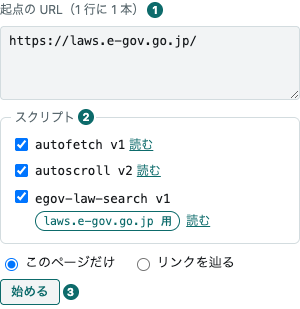
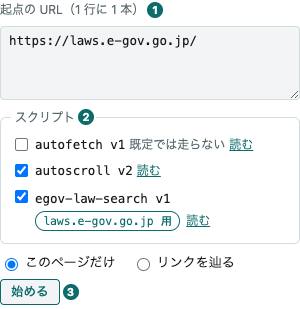
feat!: 既定に入らないスクリプトを、外れたチェックで並べる（台帳 v0.64.0 の enabled） (#44)
* feat!: 既定に入らないスクリプトを、外れたチェックで並べる（台帳 v0.64.0 の enabled）

capture-scripts v0.5.0 で autofetch がカタログの `default: false` になり、台帳 v0.64.0 は全部の版を
無効にして持ち、`GET /api/scripts` に `enabled: false` で載せる（名指せば最新版が走る）。dashboard は
これまで一覧の全部を既定と見ていたので、autofetch に付いたチェックのまま「既定のまま」と読み、
scripts を省いて、台帳が走らせない物を走らせるつもりで見せていた。

- 新しいクロールの画面: 初めのチェックは台帳の `enabled` のとおり。既定に入らない物は外れた状態で、
  名前の横に「既定では走らない」。付ければ名指して送る。人の付け外しは id ごとに覚える
  （外した物だけを覚える Set を、付けた物も覚える Map に）
- 既定の顔ぶれ（start.js の defaultIds）は enabled の物だけ —— 台帳の resolveScripts の写し
- スクリプトの画面: 一覧に組「既定では走らない（選べば走る）」。既定の版（版の札の「既定」と
  standing）は enabled の行からだけ取る（reading.js の defaultVersionOf）
- 代役: 一覧は台帳の pickable の写し、名指しは有効かどうかを見ない（resolveScripts の名指しの側）。
  台本の autofetch v1 は enabled: false。写しは capture-scripts v0.5.0 とバイト列が同じ
- docs: 新しいクロールの画面の項・スクリプトの画面の 4 つの組・URL の表・版の札、代役の説明。
  docs:shots で撮り直して変わったのは start と scripts

反証: defaultIds の enabled を外すと試験が 6 本赤、代役の名指しを有効な版に戻すと 4 本赤。
代役を Chrome で開き、チェック（autofetch は外れ・autoscroll は付き）と、既定のままなら scripts を
省き、autofetch を付けると [autofetch, autoscroll, egov-law-search] を送ることを確かめた。

台帳 v0.64.0 より前の台帳では enabled が無く、全部が「既定では走らない」に見える。

Claude-Session: https://claude.ai/code/session_011kE2dP25YBdBgTbk1xgCeD

* docs: 絵の元の控えを撮り直す（docs:shots の後に app.js の注記を直したため）

Claude-Session: https://claude.ai/code/session_011kE2dP25YBdBgTbk1xgCeD

---------

Changed region(s): [[0.42, 0.4369, 0.84, 0.4951], [0.03, 0.4369, 0.09, 0.4951]]

diff --git a/public/app.js b/public/app.js
@@ -32,6 +32,7 @@ import {
 } from "/start.js";
 import { dropsOf, inspectHref, ruleTallies } from "/decisions.js";
 import {
+  defaultVersionOf,
   labelOf,
   linesOf,
   metaOf,
@@ -375,10 +376,16 @@ const drawCrawls = () => {
  */
 let picks = [];
 
-/** 外したスクリプトの id。**引き直しても覚えておく。** 新しく現れた id は、選んだ状態で出る。 */
-const unpicked = new Set();
+/**
+ * 人が付け外ししたチェック（id → 付けたか）。**引き直しても覚えておく。** 覚えていない id は、台帳の既定
+ * （`enabled`）のとおりに出る —— 既定に入る物は付いた状態で、入らない物（autofetch など）は外れた状態で。
+ */
+const chosen = new Map();
 
-/** 最後に描いたチェックの形（id と版と札）。同じなら描き直さない。 */
+/** そのスクリプトを走らせるか。人が付け外ししていれば、それに従う。 */
+const pickedOf = (script) => chosen.get(script.id) ?? script.enabled;
+
+/** 最後に描いたチェックの形（id と版と札と、既定に入るか）。同じなら描き直さない。 */
 let catalogKey;
 
 /**
@@ -386,7 +393,7 @@ let catalogKey;
  * 引くので、毎回作り直すと、押そうとしているチェックが手の下で入れ替わる。付け外しは `syncPicks`。
  */
 const drawPicks = (scripts) => {
-  const key = scripts.map((s) => `${s.id}@${String(s.version)}~${s.sites.join(" ")}`).join(",");
+  const key = scripts.map((s) => `${s.id}@${String(s.version)}~${s.sites.join(" ")}~${String(s.enabled)}`).join(",");
   if (key === catalogKey) return;
   catalogKey = key;
   const box = $("start-picks");
@@ -396,8 +403,7 @@ const drawPicks = (scripts) => {
     const input = document.createElement("input");
     input.type = "checkbox";
     input.onchange = () => {
-      if (input.checked) unpicked.delete(script.id);
-      else unpicked.add(script.id);
+      chosen.set(script.id, input.checked);
     };
     const label = document.createElement("label");
     label.className = "pick";
@@ -408,12 +414,14 @@ const drawPicks = (scripts) => {
     read.href = readingHash({ id: script.id, version: script.version });
     read.dataset.read = "";
     const why = script.sites.length === 0 ? undefined : tag("span", "", "why");
+    // 既定に入らないスクリプト。チェックは外れた状態で出るが、付ければ走る（台帳は名指しを通す）
+    const off = script.enabled ? [] : [tag("span", "既定では走らない", "off")];
     if (why === undefined) {
-      label.append(input, name, read);
+      label.append(input, name, ...off, read);
     } else {
       // 名前と札をまとめる。長いホスト名で札が折り返しても、名前の下に揃う（理由の行と同じ）
       const head = tag("span", "", "phead");
-      head.append(name, siteChip(script.sites), read);
+      head.append(name, siteChip(script.sites), ...off, read);
       label.append(input, head, why);
     }
     box.append(label);
@@ -427,15 +435,15 @@ const drawPicks = (scripts) => {
 
 /**
  * チェックを起点に合わせる。サイト用のスクリプトは、起点のどれかが札のホストにあるときだけ押せる
- * （台帳の決まりの写し。`start.js` の `onSeed`）。**人が外したチェックは覚えたまま** —— 起点を
- * 書き換えて合わなくなれば押せなくなり、合うようになれば、外していない限り付く。
+ * （台帳の決まりの写し。`start.js` の `onSeed`）。**人が付け外ししたチェックは覚えたまま** —— 起点を
+ * 書き換えて合わなくなれば押せなくなり、合うようになれば、人が選んだとおり（選んでいなければ台帳の既定のとおり）に付く。
  */
 const syncPicks = () => {
   const hosts = seedHosts($("start-seeds").value);
   for (const { script, input, why } of picks) {
     const allowed = onSeed(script, hosts);
     input.disabled = !allowed;
-    input.checked = allowed && !unpicked.has(script.id);
+    input.checked = allowed && pickedOf(script);
     if (why === undefined) continue;
     why.textContent = allowed
       ? ""
@@ -447,7 +455,7 @@ const syncPicks = () => {
 
 /**
  * 欄の「走らせるもの」。組み立ては `start.js` の `scriptsOf`（試験から呼べる）。選んだ物は、起点に合い、
- * 外していない物。既定の顔ぶれ（台帳が `scripts` を省いた頼みに選ぶ物）と同じなら、送らずに済む。
+ * チェックの付いた物。既定の顔ぶれ（台帳が `scripts` を省いた頼みに選ぶ物）と同じなら、送らずに済む。
  */
 const runOf = () => {
   const hosts = seedHosts($("start-seeds").value);
@@ -455,7 +463,7 @@ const runOf = () => {
   return {
     catalog: scripts.map((script) => script.id),
     picked: scripts
-      .filter((script) => onSeed(script, hosts) && !unpicked.has(script.id))
+      .filter((script) => onSeed(script, hosts) && pickedOf(script))
       .map((script) => script.id),
     defaults: defaultIds(scripts, hosts),
     inline: {
@@ -1003,22 +1011,23 @@ const markListed = () => {
 };
 
 /**
- * 一覧（既定で走る版・サイト用の版・書くための受け皿の型）。**変わったときだけ描き直す** —— 一覧は
+ * 一覧（既定で走る版・サイト用の版・既定では走らない版・書くための受け皿の型）。**変わったときだけ描き直す** —— 一覧は
  * 走行中なら 2 秒ごとに引くので、毎回作り直すと、押そうとしている項目が手の下で入れ替わる（drawPicks と同じ）。
  */
 const drawReadingList = () => {
   $("scripts-empty").hidden = reading.latest.length > 0;
   const types = reading.types;
   const key = [
-    ...reading.latest.map((s) => `${s.id}@${String(s.version)}~${s.sha256}~${s.sites.join(" ")}`),
+    ...reading.latest.map((s) => `${s.id}@${String(s.version)}~${s.sha256}~${s.sites.join(" ")}~${String(s.enabled)}`),
     `types@${types === undefined ? "?" : types === null ? "-" : `${String(types.version)}~${types.sha256}`}`,
   ].join(",");
   if (key !== reading.listKey) {
     reading.listKey = key;
     const nav = $("reading-list");
     const item = (s) => listItem(readingHash({ id: s.id }), s.id, `v${String(s.version)}`, s.id, s.sites);
-    const anywhere = reading.latest.filter((s) => s.sites.length === 0);
-    const onSites = reading.latest.filter((s) => s.sites.length > 0);
+    const anywhere = reading.latest.filter((s) => s.enabled && s.sites.length === 0);
+    const onSites = reading.latest.filter((s) => s.enabled && s.sites.length > 0);
+    const off = reading.latest.filter((s) => !s.enabled);
     nav.replaceChildren(tag("span", "既定で走る", "grp"));
     if (anywhere.length === 0) {
       nav.append(tag("span", reading.latest.length === 0 ? "（台帳にスクリプトが無い）" : "（無し）", "muted"));
@@ -1026,6 +1035,9 @@ const drawReadingList = () => {
     nav.append(...anywhere.map(item));
     if (onSites.length > 0) {
       nav.append(tag("span", "サイト用（起点がそのサイトのとき）", "grp"), ...onSites.map(item));
+    }
+    if (off.length > 0) {
+      nav.append(tag("span", "既定では走らない（選べば走る）", "grp"), ...off.map(item));
     }
     nav.append(tag("span", "書くための型", "grp"));
     if (types === null) nav.append(tag("span", "host.d.ts（台帳に無い）", "muted"));
@@ -1266,8 +1278,8 @@ const openScript = async (target, stale) => {
     drawLines(IN_CATALOG, undefined);
     return;
   }
-  const defaultVersion = reading.latest.find((s) => s.id === target.id)?.version;
-  const version = target.version ?? defaultVersion ?? listed.versions[0].version;
+  const defaultVersion = defaultVersionOf(reading.latest, target.id);
+  const version = target.version ?? reading.latest.find((s) => s.id === target.id)?.version ?? listed.versions[0].version;
   const chips = chipsOf(target.id, listed.versions, version, defaultVersion);
   const entry = listed.versions.find((v) => v.version === version);
   if (entry === undefined) {
@@ -1329,7 +1341,7 @@ const openReading = async (asked) => {
     let target = asked;
     if (target === undefined) {
       // 一覧の頭（札の無い物が先に並ぶ）
-      const first = reading.latest.find((s) => s.sites.length === 0) ?? reading.latest[0];
+      const first = reading.latest.find((s) => s.enabled && s.sites.length === 0) ?? reading.latest[0];
       target = first !== undefined ? { id: first.id } : reading.types !== null ? {} : undefined;
       if (target !== undefined) history.replaceState(null, "", readingHash(target));
     }
@@ -1382,7 +1394,7 @@ const putTemplate = (doc, { replace = false, at = IN_CATALOG } = {}) => {
   $(doc.phase === "preload" ? "start-inline-preload" : "start-inline-behavior").checked = true;
   box.value = source;
   // 元を外す。両方走ると 2 回走り、coverage は id を見ずに、先に走る写しの報告を採る
-  unpicked.add(doc.id);
+  chosen.set(doc.id, false);
   catalogKey = undefined; // drawPicks は台帳のスクリプトが変わったときだけ描くので、ここで描き直させる
   drawPicks(reading.latest);
   const said = $("start-answer");
@@ -1451,7 +1463,7 @@ const drawStartReadHead = () => {
     drawReadingHead(IN_START, { facts: metaOf(doc), actions: [copyButton(doc.source), full] });
     return;
   }
-  const defaultVersion = reading.latest.find((s) => s.id === doc.id)?.version;
+  const defaultVersion = defaultVersionOf(reading.latest, doc.id);
   drawReadingHead(IN_START, {
     facts: [...metaOf(doc), optionsText(doc.options)],
     standing: standingOf(doc, defaultVersion),

diff --git a/public/reading.js b/public/reading.js
@@ -80,7 +80,16 @@ export const optionsText = (options) =>
     : `設定 ${JSON.stringify(options)}`;
 
 /**
- * この版と既定の顔ぶれの関係。`defaultVersion` は `GET /api/scripts` がその id に言う版（無ければ
+ * その id で既定の顔ぶれに入る版。`latest` は `GET /api/scripts` の答え（id ごとに 1 行。既定に入らない id も
+ * `enabled: false` で載る）。既定に入らない id と、載っていない id は undefined。
+ */
+export const defaultVersionOf = (latest, id) => {
+  const script = latest.find((s) => s.id === id);
+  return script?.enabled ? script.version : undefined;
+};
+
+/**
+ * この版と既定の顔ぶれの関係。`defaultVersion` は `defaultVersionOf` の答え（既定に入らない id なら
  * undefined）。無効な版は、名指せば走るが、既定では走らない。サイト用のスクリプト（札のある版）が既定で
  * 走るのは、起点のどれかが札のホストにあるときだけ。
  */

diff --git a/public/start.js b/public/start.js
@@ -44,9 +44,12 @@ export const onSeed = (script, hosts) =>
 export const plainClick = (event) =>
   event.button === 0 && !event.metaKey && !event.ctrlKey && !event.shiftKey && !event.altKey;
 
-/** 起点だけで決まる顔ぶれ —— 台帳が `scripts` を省いた頼みに選ぶ物と同じ。並びは台帳の並び。 */
+/**
+ * 起点と台帳の既定（`enabled`）で決まる顔ぶれ —— 台帳が `scripts` を省いた頼みに選ぶ物と同じ。並びは台帳の並び。
+ * 既定に入らないスクリプト（`enabled: false`。カタログの `default: false`）は、起点に合っても入らない。
+ */
 export const defaultIds = (scripts, hosts) =>
-  scripts.filter((script) => onSeed(script, hosts)).map((script) => script.id);
+  scripts.filter((script) => script.enabled && onSeed(script, hosts)).map((script) => script.id);
 
 /**
  * 走らせるもの（台帳の `scripts`）。**既定のまま —— 選んだ物が既定の顔ぶれ（`defaultIds`）と同じで、

diff --git a/public/app.css b/public/app.css
@@ -659,6 +659,12 @@ body[data-face="start"] main {
   color: var(--muted);
 }
 
+/* 既定に入らないスクリプト（autofetch など）。チェックは外れた状態で出るが、付ければ走る */
+.start-row .pick .off {
+  color: var(--muted);
+  font-size: 12px;
+}
+
 /* チェックの横の「読む」。押せないチェック（起点に合わないサイト用のスクリプト）の上でも、押せる見た目に */
 .start-row .pick .read {
   font-size: 12px;

diff --git a/docs-site/src/content/docs/screens.md b/docs-site/src/content/docs/screens.md
@@ -104,7 +104,7 @@ page only) or リンクを辿る (follow links), and press 始める. The right 
 a window for reading a registered script, and, while リンクを辿る is chosen, to 辿り方 (how to
 follow).
 
-![The left column of the new crawl view: the seed URL (e-Gov Law Search), script checkboxes including the site script egov-law-search, this page only or follow links, and 始める](../../assets/screens/start.webp)
+![The left column of the new crawl view: the seed URL (e-Gov Law Search), script checkboxes including autofetch left unticked as 既定では走らない and the site script egov-law-search, this page only or follow links, and 始める](../../assets/screens/start.webp)
 
 ① seed URLs\
 ② スクリプト (scripts): the checkboxes and 読む (read)\
@@ -118,8 +118,8 @@ follow).
 
 - **It sends the seed URLs, whether the depth is 0, and what runs — the last only when it differs
   from the default.** このページだけ sends `maxDepth: 0`; リンクを辿る sends the rules, and the depth
-  and the page limit only when they are written (empty, they are the ledger's defaults). With the default set the seeds decide (the scripts
-  without sites, and the site scripts for a seed's host) ticked and no script of your own, the form
+  and the page limit only when they are written (empty, they are the ledger's defaults). With the default set the seeds decide (of the scripts in
+  the default, those without sites and the site scripts for a seed's host) ticked and no script of your own, the form
   sends no `scripts`, and the ledger picks the same set from the seeds. A ledger with no scripts is still a
   400, and so, with its own message, is one in which no script fits the seeds. Otherwise it
   sends `scripts`: your script first, then the ticked registered scripts in the ledger's
@@ -135,6 +135,12 @@ follow).
   The example is `egov-law-search` from capture-scripts (sites `laws.e-gov.go.jp`), which searches law titles
   for 「セキュリティ」 within [e-Gov Law Search](https://laws.e-gov.go.jp/); seed `https://laws.e-gov.go.jp/` to
   choose it, as in the picture above.
+- **A script left out of the default is listed unticked.** It reads 既定では走らない (does not run
+  by default) beside its name, as autofetch does in the picture above: a script whose entry in the
+  `catalog.json` of [capture-scripts](https://github.com/uraitakahito/capture-scripts) says
+  `"default": false`, every version of which the ledger keeps disabled. A crawl that names no
+  scripts does not run it. Tick it and the form names it, and the ledger runs its newest version. A
+  box you ticked is remembered like one you unticked, and a fetch does not reset it.
 - **It shows the size before sending.** Under the box are the number of lines, the size of the body
   it will send (UTF-8 bytes) and how much of the limit that is. The limit is the one the writing
   route enforces, handed out by the server as `writeLimit` in `/healthz`. Over it, the line turns
@@ -250,15 +256,17 @@ The WACZ files you can see, newest capture first.
 ## Scripts
 
 The scripts that run inside the pages being captured, to read before writing one of your own, or
-to see exactly what a crawl ran. On the left is a list in three groups: the scripts that run by
+to see exactly what a crawl ran. On the left is a list in four groups: the scripts that run by
 default (the newest enabled version of each id without sites, which is what a crawl runs when it
-names none), the site scripts (those with sites, which run only when a seed is on their site), and,
-under 書くための型 (types to write against), `host.d.ts`, the types of `__bh`, the object the
-capture server puts in the page for scripts to use. The default scripts and the site scripts also
-appear as checkboxes under スクリプト (scripts) in the [new crawl view](#start-a-crawl), where 読む
-(read) next to one opens it in the right column.
+names none), the site scripts (those with sites, which run only when a seed is on their site), the
+scripts that do not run by default (under 既定では走らない, those with no enabled version, whose
+newest version runs when a crawl names them), and, under 書くための型 (types to write against),
+`host.d.ts`, the types of `__bh`, the object the capture server puts in the page for scripts to
+use. All but `host.d.ts` also appear as checkboxes under スクリプト (scripts) in the
+[new crawl view](#start-a-crawl) (those that do not run by default unticked), where 読む (read)
+next to one opens it in the right column.
 
-![The list on the left of the scripts view: autofetch and autoscroll (open) run by default, the site script egov-law-search with its chip laws.e-gov.go.jp, and host.d.ts under 書くための型](../../assets/screens/scripts.webp)
+![The list on the left of the scripts view: autoscroll (open) runs by default, the site script egov-law-search with its chip laws.e-gov.go.jp, autofetch under 既定では走らない, and host.d.ts under 書くための型](../../assets/screens/scripts.webp)
 
 On the right is the TypeScript as it was written, with line numbers.
 
@@ -267,17 +275,18 @@ On the right is the TypeScript as it was written, with line numbers.
 | URL | Opens |
 | --- | --- |
 | `#scripts` | the first script in the list (the URL changes to name it) |
-| `#scripts/autoscroll` | the version that runs by default |
+| `#scripts/autoscroll` | the version that runs by default (for a script that does not, the newest) |
 | `#scripts/autoscroll@1` | version 1, enabled or not |
 | `#scripts/autoscroll@1:33` | version 1, with line 33 marked and scrolled into the middle |
 | `#scripts/types/host.d.ts` | the types of `__bh` |
 
 - **The heading says which version you are reading.** Chips list every version of the id, the
-  default one marked 既定. Under them are the line count, the size, the start of the sha256, the day
+  default one marked 既定 and disabled ones 無効. Under them are the line count, the size, the start of the sha256, the day
   it was imported, the options it is given (`{}` means the defaults written in the code), and
   whether it is the version that runs by default. A site script has its sites beside its name, and
   its default version reads 起点に laws.e-gov.go.jp があれば既定で走る版 (runs by default when a seed
-  is on laws.e-gov.go.jp).
+  is on laws.e-gov.go.jp). A disabled version reads 無効（既定では走らない） (disabled; does not run
+  by default).
 - **Sites mark a script that only makes sense on certain sites.** The sites (`sites`) are a list
   of hostnames, written in the `catalog.json` of
   [capture-scripts](https://github.com/uraitakahito/capture-scripts) and kept by the ledger with
@@ -305,7 +314,8 @@ On the right is the TypeScript as it was written, with line numbers.
   it changes. The versions and the source of a script are fetched when you open it, and the types
   of `__bh` once, when you first open the view. The routes are capture-ledger's
   `GET /api/scripts/:id/versions`, `GET /api/scripts/:id/versions/:version` and
-  `GET /api/host-types` (from v0.60.0; the sites from v0.61.0), passed through as in
+  `GET /api/host-types` (from v0.60.0; the sites from v0.61.0; the list, `GET /api/scripts`,
+  carries the scripts that do not run by default, with `enabled: false`, from v0.64.0), passed through as in
   [Routes](/routes/).
 
 **A ledger with no scripts is shown in red.** The capture server (BrowserHive) does not bring any scripts

diff --git a/docs-site/src/content/docs/ja/development.md b/docs-site/src/content/docs/ja/development.md
@@ -87,7 +87,7 @@ dashboard が読む設定は `sandbox/sandbox.env` だけで、あなたの `.en
 | --- | --- |
 | 見せるものを変える | 台本を書き換える。代役は要求のたびに読むので、起こし直さずに画面に出る |
 | 台帳にスクリプトが無いときを見る | 台本の `"emptyCatalog"` を `true` にする。スクリプトの画面には受け皿の型だけが残る |
-| スクリプトを変える | 台本の `catalog` を書き換える。1 版に 1 つで、`sandbox/catalog/` のファイル（capture-scripts v0.4.0 のスクリプトと受け皿の型の写し）を名指す。`sha256` と `bytes` は代役が台帳と同じくファイルから数え、一覧は有効な各 id の最新版。autoscroll v2 は同じファイルで `options` だけが違う版。`sites`（札）のある版はサイト用のスクリプトで、既定で走るのは起点のどれかが札のホストにあるときだけ。`egov-law-search`（札 `laws.e-gov.go.jp`）も capture-scripts の写しで、本物の台帳と同じ版。`hostTypes` は受け皿の型で、消すと型を取り込んでいない台帳になる。写しは `check:terms` から外してある（別の repo の言葉で、直すと行番号が実物とずれる） |
+| スクリプトを変える | 台本の `catalog` を書き換える。1 版に 1 つで、`sandbox/catalog/` のファイル（capture-scripts v0.5.0 のスクリプトと受け皿の型の写し）を名指す。`sha256` と `bytes` は代役が台帳と同じくファイルから数え、一覧は各 id に 1 行（有効な版の中の最新、無ければ最新版を `enabled: false` で）。autoscroll v2 は同じファイルで `options` だけが違う版。autofetch は `enabled: false` —— カタログに `"default": false` と書いたスクリプトを台帳が持つ姿で、名指したときだけ走る。`sites`（札）のある版はサイト用のスクリプトで、既定で走るのは起点のどれかが札のホストにあるときだけ。`egov-law-search`（札 `laws.e-gov.go.jp`）も capture-scripts の写しで、本物の台帳と同じ版。`hostTypes` は受け皿の型で、消すと型を取り込んでいない台帳になる。写しは `check:terms` から外してある（別の repo の言葉で、直すと行番号が実物とずれる） |
 | 別の WACZ を並べる | `SANDBOX_WACZ_DIR=<dir> npm run sandbox`（相対なら、この repo から。例: `../wacz-validator/samples`）。代役と daemon の両方に同じ置き場が入る |
 | wacz-validator の更新を daemon に入れる | `npm run sandbox:build`。`npm run sandbox` は、image が無いときにしか建てない |
 | 新しいクロールの画面を試す | 新しいクロールの画面から始める。代役は受けた行を台本の `submit.runsSeconds` 秒だけ走らせてから完走にする。走っている間にもう 1 度押すと 409、読めない URL は 400。走らせるもの（スクリプトのチェックとその場の JS）も台帳と同じ形で受け、知らないスクリプトの id・同じ id の重ね・名前の綴り・起点に合わないサイト用のスクリプトの名指し・既定が空（台帳にスクリプトが無いか、全部が別のサイト用）は台帳と同じ文で 400。行を開くと走らせたものが出る。チェックの横の「読む」は右の列に開く（代役の autoscroll は v2 で設定つき、egov-law-search は起点に laws.e-gov.go.jp が無いと押せないが読める） |

diff --git a/docs-site/src/content/docs/development.md b/docs-site/src/content/docs/development.md
@@ -96,7 +96,7 @@ in `sandbox/samples/SOURCE.md`.
 | --- | --- |
 | change what it shows | edit the scenario. The stand-in reads it on every request, so the change reaches the screen without restarting anything |
 | see a ledger with no scripts | set `"emptyCatalog"` to `true` in the scenario. The scripts view then lists only the receptacle types |
-| change the scripts | edit the scenario's `catalog`: one entry per version, naming a file under `sandbox/catalog/` (copies of capture-scripts v0.4.0's scripts and receptacle types). The stand-in computes `sha256` and `bytes` from the file, as the ledger does, and its list is the newest enabled version of each id. autoscroll v2 is the same file with different `options`. A version with `sites` is a site script and runs by default only when a seed is on one of those hosts; `egov-law-search` (sites `laws.e-gov.go.jp`) is a capture-scripts copy too, the same version as a real ledger's. `hostTypes` is the receptacle types; remove it to see a ledger that has not imported them. The copies are left out of `check:terms`: they are another repository's words, and editing them would shift their line numbers |
+| change the scripts | edit the scenario's `catalog`: one entry per version, naming a file under `sandbox/catalog/` (copies of capture-scripts v0.5.0's scripts and receptacle types). The stand-in computes `sha256` and `bytes` from the file, as the ledger does, and its list has one row per id: the newest enabled version, or else the newest version with `enabled: false`. autoscroll v2 is the same file with different `options`. autofetch is `enabled: false`, as a ledger keeps a script whose catalog entry says `"default": false`: it runs only when named. A version with `sites` is a site script and runs by default only when a seed is on one of those hosts; `egov-law-search` (sites `laws.e-gov.go.jp`) is a capture-scripts copy too, the same version as a real ledger's. `hostTypes` is the receptacle types; remove it to see a ledger that has not imported them. The copies are left out of `check:terms`: they are another repository's words, and editing them would shift their line numbers |
 | list other WACZ files | `SANDBOX_WACZ_DIR=<dir> npm run sandbox` (relative to this repository, for example `../wacz-validator/samples`). The stand-in and the daemon both get the same directory |
 | put an updated wacz-validator into the daemon | `npm run sandbox:build`. `npm run sandbox` only builds the image when there is none |
 | try the new crawl view | Start a crawl from the new crawl view. The stand-in runs each crawl it accepts for the scenario's `submit.runsSeconds` seconds, then completes it. Pressing again while it runs gives a 409; a URL that cannot be read gives a 400. It takes `scripts` (ticked registered scripts and a script of your own) the way the ledger does, answers an unknown script id, the same id twice, a misspelt name, a site script that fits no seed, or an empty default (no scripts at all, or nothing that fits the seeds) with the ledger's 400, and lists what ran when you open the row. 読む (read) next to a checkbox opens the script in the right column (the stand-in's autoscroll is v2, with options; egov-law-search cannot be ticked without a laws.e-gov.go.jp seed, but can be read) |
